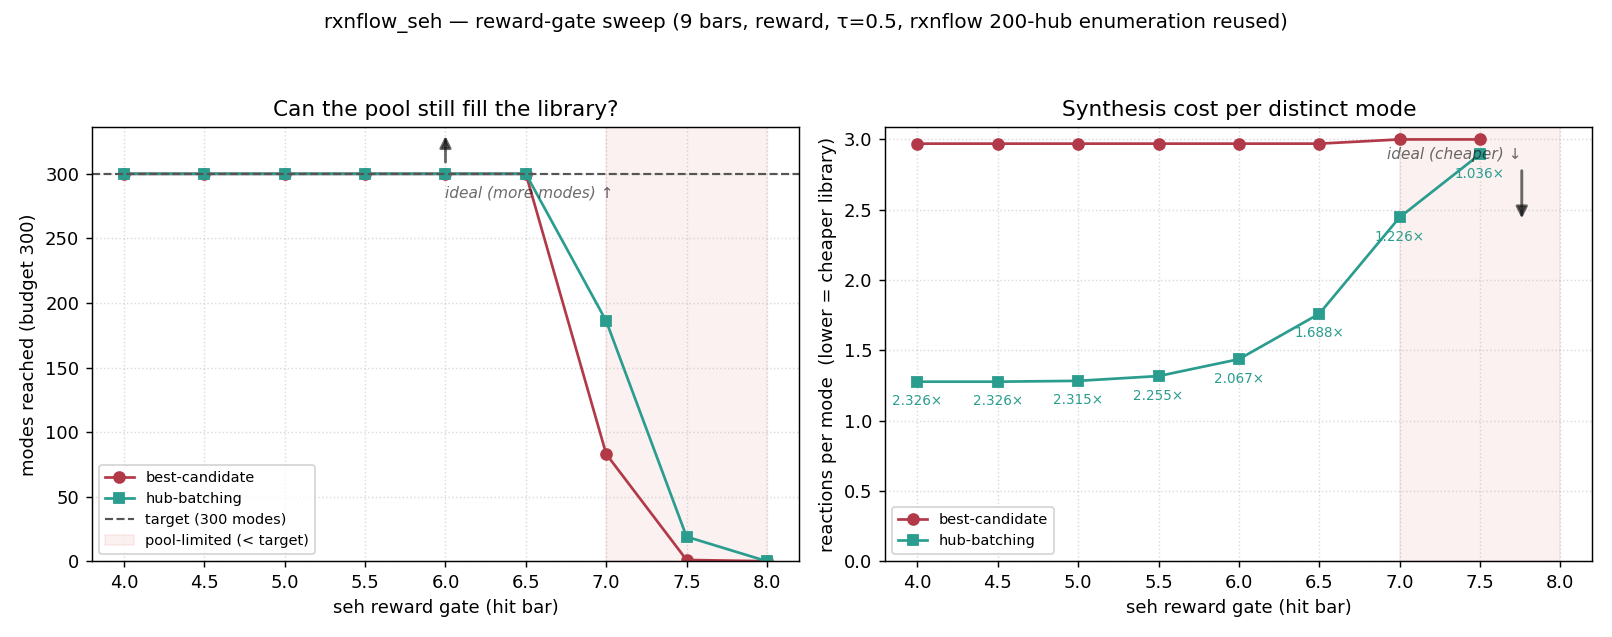
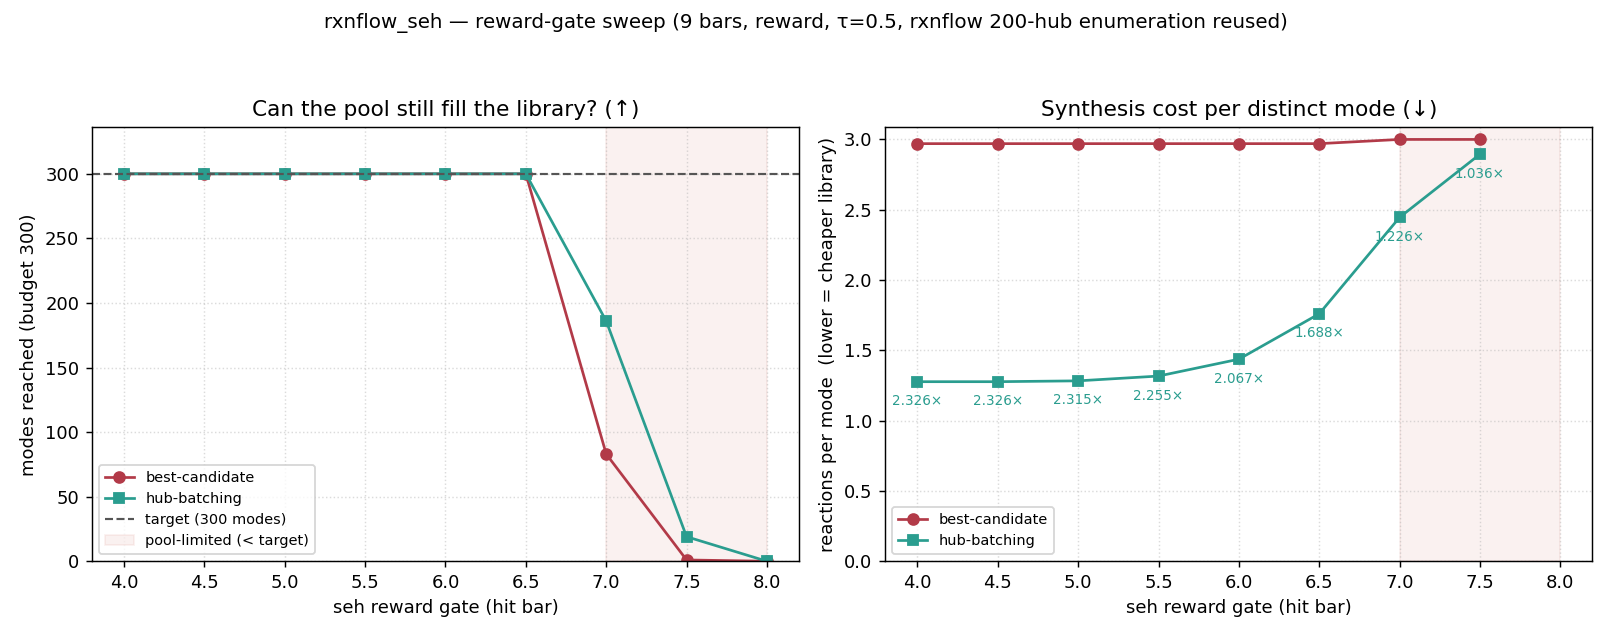
Ideal-direction marker moves into the title; no arrows inside the axes
Replaces the in-axes arrows from 2ddc411 with standard publication practice: a
parenthesised arrow appended to the panel TITLE, e.g. "Synthesis cost per
distinct mode (down-arrow)". Nothing is drawn in the plotting area any more --
no arrows, no shaded "better" corners. It costs no plot area, cannot collide
with the data or the legend, survives cropping, and reads correctly in a figure
list or caption.

The semantics changed with the placement, and this is the important part: the
glyph now describes the METRIC, not the screen. "lower"/"higher" only, and
ideal_marker() REJECTS screen-space words like "up-right". That removes the
confusion the old API required callers to reason about -- our panels invert axes
(fixed_modes plots reactions on an inverted y so cheaper is up), and the marker
is now correct there without the caller translating anything.

Where both axes are metrics the marker names them:
"(up-arrow modes, down-arrow reactions)".

Notably this caught a mislabel the previous approach had: sweep_campaign's
pareto (y = modes discovered) and fixed_modes (y = reactions REQUIRED) are BOTH
axis-inverted but want OPPOSITE arrows, so the old "infer up-right from
invert_x/invert_y" default was wrong for fixed_modes. Direction is now explicit
per call site with no inferred default.

Re-rendered every affected figure; all five headline cells' reactions/mode
verified unchanged.

diff --git a/validation/lsdflow/plot_style.py b/validation/lsdflow/plot_style.py
@@ -1,137 +1,92 @@
-"""Shared plot furniture for LSD-Flow figures — chiefly the "ideal direction" arrow.
+"""Shared plot furniture for LSD-Flow figures — the "ideal direction" marker.
 
-Every figure we publish has an axis whose *good* direction is not self-evident: reactions/mode is
-better LOW, modes-discovered is better HIGH, and a Pareto panel wants both at once. Worse, several of
-our panels deliberately invert an axis (diversity sweeps run 0.9 -> 0.3 so "more diverse" reads
-left-to-right; ``fixed_modes`` inverts y so "cheaper" is up), which makes the good direction genuinely
-ambiguous to a reader seeing the plot for the first time. :func:`ideal_arrow` stamps it explicitly.
+Every figure we publish has a metric whose *good* direction is not self-evident: reactions/mode is
+better LOW, modes-discovered is better HIGH, and a Pareto panel wants both at once. Several panels also
+deliberately invert an axis (diversity sweeps run 0.9 -> 0.3 so "more diverse" reads left-to-right;
+``fixed_modes`` inverts y so "cheaper" is up), which makes the good direction genuinely ambiguous to a
+first-time reader.
 
-**Direction is in SCREEN space, not data space.** The arrow is drawn in axes-fraction coordinates, so
-a caller with an inverted axis passes the direction the reader should look, not the direction the data
-values increase. That is the whole point: on ``fixed_modes`` (inverted y, fewer reactions upward) the
-correct call is ``ideal_arrow(ax, "up")``, even though the y *values* decrease upward.
+**Convention: a parenthesised arrow appended to the panel TITLE, never drawn inside the axes.** This is
+standard publication practice ("FID ↓", "Accuracy ↑") — it costs no plot area, cannot collide with the
+data or the legend, survives cropping, and reads correctly in a figure list or a caption. Do not add
+arrows, shaded "better" regions, or corner annotations to the plotting area.
 
-Import contract: matplotlib only (no torch/rdkit), so it loads in every analysis env. Callers that
-may run without matplotlib should still guard their own import; this module fails loudly if asked to
-draw without it.
+**The glyph describes the METRIC, not the screen.** ``↓`` always means "lower values are better",
+regardless of whether the axis happens to be inverted. That is what makes it unambiguous on our flipped
+panels: ``fixed_modes`` plots reactions on an inverted y-axis, and its marker is still ``(↓)`` because
+fewer reactions is better.
 
-    from validation.lsdflow.plot_style import ideal_arrow
-    ideal_arrow(ax, "up-right")                      # Pareto: more modes AND more diversity
-    ideal_arrow(ax, "down", label="ideal (cheaper)") # cost panels
+    from validation.lsdflow.plot_style import ideal_marker
+
+    ax.set_title(f"cost per mode {ideal_marker('lower')}")            # -> "... (↓)"
+    ax.set_title(f"modes found {ideal_marker('higher')}")             # -> "... (↑)"
+    ax.set_title("count-once curve " + ideal_marker(                  # two metrics at once
+        ("higher", "modes"), ("lower", "reactions")))                 # -> "(↑ modes, ↓ reactions)"
+
+Import contract: pure stdlib (no matplotlib, no torch), so it loads in every analysis env and in tests.
 """
 
 from __future__ import annotations
 
-# Unit screen-space vectors per direction name. Diagonals are normalized-ish so the arrow reads at
-# the same visual length as the axis-aligned ones.
-_DIRS = {
-    "up": (0.0, 1.0),
-    "down": (0.0, -1.0),
-    "left": (-1.0, 0.0),
-    "right": (1.0, 0.0),
-    "up-right": (0.72, 0.72),
-    "up-left": (-0.72, 0.72),
-    "down-right": (0.72, -0.72),
-    "down-left": (-0.72, -0.72),
-}
+from typing import Sequence, Tuple, Union
 
-# Unicode glyph appended to the label, so the direction survives greyscale printing and screen readers
-# get something meaningful.
-_GLYPH = {
-    "up": "↑",
-    "down": "↓",
-    "left": "←",
-    "right": "→",
-    "up-right": "↗",
-    "up-left": "↖",
-    "down-right": "↘",
-    "down-left": "↙",
-}
+# "lower"/"higher" describe the METRIC's good direction, never a screen direction.
+_GLYPH = {"lower": "↓", "higher": "↑", "down": "↓", "up": "↑"}
 
-# Anchor (axes-fraction) for the arrow's TAIL per requested location. Default keeps the annotation at
-# the top of the panel — one consistent place to look across every figure — with the arrow itself
-# pointing whichever way is good.
-_LOCS = {
-    "upper right": (0.90, 0.90),
-    "upper left": (0.10, 0.90),
-    "upper center": (0.50, 0.92),
-    "lower right": (0.90, 0.14),
-    "lower left": (0.10, 0.14),
-}
+Spec = Union[str, Tuple[str, str]]
 
 
-def ideal_arrow(
-    ax,
-    direction: str,
-    *,
-    label: str = "ideal",
-    loc: str = "upper right",
-    length: float = 0.11,
-    color: str = "#111111",
-    alpha: float = 0.62,
-    fontsize: float = 8.5,
-    lw: float = 1.6,
-):
-    """Stamp a small "ideal direction" arrow inside ``ax``.
+def _one(spec: Spec) -> str:
+    if isinstance(spec, str):
+        direction, name = spec, ""
+    else:
+        direction, name = spec
+    key = direction.strip().lower()
+    if key not in _GLYPH:
+        raise ValueError(f"direction must be 'lower' or 'higher', got {direction!r}")
+    return f"{_GLYPH[key]} {name}".strip()
+
+
+def ideal_marker(*specs: Spec) -> str:
+    """The parenthesised ideal-direction marker to append to a panel title.
 
     Args:
-        direction: screen-space direction (see :data:`_DIRS`) — ``"up"``, ``"down"``, ``"up-right"``,
-            etc. NOT the direction the data values increase (see module docstring).
-        label: text beside the arrow; the matching unicode glyph is appended automatically.
-        loc: where the arrow sits, as an axes-fraction anchor (see :data:`_LOCS`). Pick one that
-            misses the legend and the data — nothing here detects collisions.
-        length: arrow length in axes fractions.
+        *specs: one entry per metric. Either ``"lower"``/``"higher"``, or a
+            ``(direction, metric_name)`` pair when a panel has more than one metric and the arrows
+            would otherwise be ambiguous.
 
-    Returns the annotation, so a caller can tweak/remove it.
+    Returns:
+        e.g. ``"(↓)"``, ``"(↑)"``, ``"(↑ modes, ↓ reactions)"``. Empty string if no specs are given,
+        so a caller can pass through unconditionally.
     """
-    if direction not in _DIRS:
-        raise ValueError(f"direction must be one of {sorted(_DIRS)}, got {direction!r}")
-    if loc not in _LOCS:
-        raise ValueError(f"loc must be one of {sorted(_LOCS)}, got {loc!r}")
-    dx, dy = _DIRS[direction]
-    x0, y0 = _LOCS[loc]
-    # Draw from the anchor toward the ideal corner, clamped into the axes so a diagonal never spills.
-    x1 = min(max(x0 + dx * length, 0.02), 0.98)
-    y1 = min(max(y0 + dy * length, 0.02), 0.98)
-    ann = ax.annotate(
-        "",
-        xy=(x1, y1),
-        xytext=(x0, y0),
-        xycoords="axes fraction",
-        textcoords="axes fraction",
-        arrowprops=dict(
-            arrowstyle="-|>",
-            color=color,
-            alpha=alpha,
-            lw=lw,
-            shrinkA=0,
-            shrinkB=0,
-            mutation_scale=13,
-        ),
-        annotation_clip=False,
-        zorder=6,
-    )
-    if label:
-        # Offset the text opposite the arrow so it never sits under the shaft, then clamp it inside
-        # the axes. Alignment is chosen from where the label ACTUALLY lands, not from the arrow
-        # direction: anchoring at x=0.90 and aligning left pushes the text off the right edge (it
-        # clipped "ideal ↖" on the count-once curve before this).
-        ox, oy = -dx * 0.055, -dy * 0.055
-        if dy == 0.0:  # a horizontal arrow: offsetting along -x lands the text ON the shaft
-            ox, oy = -dx * 0.015, -0.075  # so drop it below instead
-        xl = min(max(x0 + ox, 0.04), 0.96)
-        yl = min(max(y0 + oy, 0.04), 0.96)
-        ax.text(
-            xl,
-            yl,
-            f"{label} {_GLYPH[direction]}",
-            transform=ax.transAxes,
-            ha="right" if xl > 0.5 else "left",
-            va="top" if yl > 0.5 else "bottom",
-            fontsize=fontsize,
-            color=color,
-            alpha=alpha,
-            style="italic",
-            zorder=6,
-        )
-    return ann
+    # Drop empty/None entries so a caller can pass an optional value straight through without
+    # branching (a bare `ideal or ""` must not raise).
+    kept = [s for s in specs if s]
+    if not kept:
+        return ""
+    return "(" + ", ".join(_one(s) for s in kept) + ")"
+
+
+def title_with_ideal(title: str, *specs: Spec) -> str:
+    """``title`` with the marker appended — the one-call form for ``ax.set_title``."""
+    marker = ideal_marker(*specs)
+    return f"{title} {marker}" if marker else title
+
+
+def axis_label_with_ideal(label: str, direction: str) -> str:
+    """A single-metric axis label carrying its own marker, e.g. ``"reactions per mode (↓)"``.
+
+    Use when a panel's title covers something else (a question, a cell name) and the direction belongs
+    to the axis. Still text — nothing is drawn inside the axes.
+    """
+    return f"{label} {ideal_marker(direction)}"
+
+
+def describe(*specs: Sequence[Spec]) -> str:
+    """Long form for captions/logs: ``"lower is better"`` / ``"higher is better"``."""
+    parts = []
+    for spec in specs:
+        direction, name = (spec, "") if isinstance(spec, str) else spec
+        word = "lower" if _GLYPH[direction.strip().lower()] == "↓" else "higher"
+        parts.append(f"{word} {name}".strip() + " is better")
+    return "; ".join(parts)

diff --git a/experiments/lsd_hubs/campaign/run_campaign.py b/experiments/lsd_hubs/campaign/run_campaign.py
@@ -35,6 +35,7 @@ from validation.lsdflow.metrics.cost.compute_time import account_strategy, head_
 from validation.lsdflow.metrics.cost.dynamic_amortization import (
     load_cost_table_from_snapshot,
 )
+from validation.lsdflow.plot_style import title_with_ideal
 
 HERE = Path(__file__).resolve().parent
 
@@ -251,17 +252,6 @@ def _write_curve(path: Path, result) -> None:
             )
 
 
-def _ideal(ax, direction: str, **kw) -> None:
-    """Stamp the "ideal direction" arrow (:mod:`validation.lsdflow.plot_style`), tolerating its
-    absence so a plot never fails over furniture. Direction is SCREEN-space, not data-space."""
-    try:
-        from validation.lsdflow.plot_style import ideal_arrow
-
-        ideal_arrow(ax, direction, **kw)
-    except Exception as exc:  # noqa: BLE001
-        print(f"[campaign] ideal-direction arrow skipped ({exc})")
-
-
 def _plot(path: Path, results, tag: str) -> None:
     try:
         import matplotlib
@@ -278,10 +268,16 @@ def _plot(path: Path, results, tag: str) -> None:
         ax.plot(xs, ys, marker=".", ms=3, lw=1.5, label=res.strategy)
     ax.set_xlabel("cumulative reactions (true nested cost, count-once)")
     ax.set_ylabel("cumulative modes (diverse hits)")
-    ax.set_title(f"SCENT {tag}: hub-batching vs best-candidate")
+    # Both axes are metrics here, so the marker names them (see plot_style: title-only, never drawn
+    # inside the axes).
+    ax.set_title(
+        title_with_ideal(
+            f"SCENT {tag}: hub-batching vs best-candidate",
+            ("higher", "modes"),
+            ("lower", "reactions"),
+        )
+    )
     ax.legend()
-    # More modes for fewer reactions = up-and-left.
-    _ideal(ax, "up-left", loc="lower right")
     fig.tight_layout()
     fig.savefig(path, dpi=130)
     print(f"[campaign] wrote {path}")
@@ -342,9 +338,9 @@ def plot_compute_time(path: Path, section: dict, tag: str) -> None:
     if extra is not None:
         sub = f"  (+{extra:.0f}s"
         sub += f", {ratio:g}× vs best-candidate)" if ratio else ")"
-    ax.set_title(f"{tag}: measured compute time by component{sub}", fontsize=10)
-    # Horizontal bars of wall-clock: shorter (leftward) is better.
-    _ideal(ax, "left", label="ideal (less compute)", loc="upper right")
+    ax.set_title(
+        title_with_ideal(f"{tag}: measured compute time by component{sub}", "lower"), fontsize=10
+    )
     ax.legend(fontsize=7, ncol=6, loc="upper center", bbox_to_anchor=(0.5, -0.22), framealpha=0.9)
     fig.tight_layout()
     fig.savefig(path, dpi=130)

diff --git a/experiments/lsd_hubs/campaign/strategy_compute_summary.py b/experiments/lsd_hubs/campaign/strategy_compute_summary.py
@@ -32,7 +32,7 @@ import matplotlib.pyplot as plt
 import pandas as pd
 
 sys.path.insert(0, str(Path(__file__).resolve().parents[2]))
-from validation.lsdflow.plot_style import ideal_arrow  # noqa: E402
+from validation.lsdflow.plot_style import title_with_ideal  # noqa: E402
 
 # Pipeline components, in the order they stack, with labels + colours.
 # setup + hub_pick are folded together (hub_pick ~= 0.16 s, one-off).
@@ -104,7 +104,7 @@ def main() -> None:
 
     axc.set_ylim(0, max(bottoms) * 1.16)
     axc.set_ylabel("compute time (s)")
-    axc.set_title("Where the time goes (measured, per component)")
+    axc.set_title(title_with_ideal("Where the time goes (measured, per component)", "lower"))
     axc.set_xticks(list(x))
     axc.set_xticklabels(strategies, rotation=25, ha="right")
     pad = max(bottoms) * 0.012
@@ -119,13 +119,12 @@ def main() -> None:
             fontweight="bold",
         )
     axc.grid(axis="y", ls=":", alpha=0.4)
-    ideal_arrow(axc, "down", label="ideal (less compute)", loc="upper right")
 
     # ---- Panel B: reward-gen (oracle) calls --------------------------------
     calls = d["reward_gen_calls"].fillna(0).astype(int).tolist()
     bars = axr.bar(list(x), calls, color="#f0883e", width=0.62, edgecolor="white", linewidth=0.4)
     axr.set_ylabel("reward-gen calls  (≈ oracle calls in the AL loop)")
-    axr.set_title("How many reward calls")
+    axr.set_title(title_with_ideal("How many reward calls", "lower"))
     axr.set_xticks(list(x))
     axr.set_xticklabels(strategies, rotation=25, ha="right")
     for b, c in zip(bars, calls):
@@ -140,7 +139,6 @@ def main() -> None:
         )
     axr.grid(axis="y", ls=":", alpha=0.4)
     axr.set_ylim(0, max(calls) * 1.15 if max(calls) else 1)
-    ideal_arrow(axr, "down", label="ideal (fewer calls)", loc="upper right")
 
     from matplotlib.patches import Patch
 

diff --git a/experiments/lsd_hubs/matrix16/gate_curve.py b/experiments/lsd_hubs/matrix16/gate_curve.py
@@ -183,7 +183,7 @@ def _plot(path: Path, rows, cell, a) -> None:
     except Exception as exc:  # noqa: BLE001
         print(f"[gate_curve] plot skipped ({exc})")
         return
-    from validation.lsdflow.plot_style import ideal_arrow
+    from validation.lsdflow.plot_style import title_with_ideal
 
     gates = [r["gate"] for r in rows]
     fig, (ax1, ax2) = plt.subplots(1, 2, figsize=(12.4, 4.9))
@@ -209,11 +209,10 @@ def _plot(path: Path, rows, cell, a) -> None:
         ax2.axvspan(min(lim) - 1e-9, max(gates), color="#c0392b", alpha=0.07)
     ax1.set_xlabel(f"{cell.target_name} reward gate (hit bar)")
     ax1.set_ylabel(f"modes reached (budget {a.budget_modes})")
-    ax1.set_title("Can the pool still fill the library?")
+    ax1.set_title(title_with_ideal("Can the pool still fill the library?", "higher"))
     ax1.set_ylim(0, a.budget_modes * 1.12)
     ax1.grid(ls=":", alpha=0.45)
     ax1.legend(fontsize=8)
-    ideal_arrow(ax1, "up", label="ideal (more modes)", loc="upper center")
 
     # ---- Panel 2: reactions/mode vs gate -----------------------------------
     ax2.plot(gates, [r["best_rxn_per_mode"] for r in rows], "o-", color=BC, label="best-candidate")
@@ -231,11 +230,10 @@ def _plot(path: Path, rows, cell, a) -> None:
             )
     ax2.set_xlabel(f"{cell.target_name} reward gate (hit bar)")
     ax2.set_ylabel("reactions per mode  (lower = cheaper library)")
-    ax2.set_title("Synthesis cost per distinct mode")
+    ax2.set_title(title_with_ideal("Synthesis cost per distinct mode", "lower"))
     ax2.set_ylim(0, None)
     ax2.grid(ls=":", alpha=0.45)
     ax2.legend(fontsize=8)
-    ideal_arrow(ax2, "down", label="ideal (cheaper)", loc="upper right")
 
     pol = a.child_policy + (f" K={a.prebuild_k}" if a.prebuild_k else "")
     fig.suptitle(

diff --git a/experiments/lsd_hubs/matrix16/tau_curve_all_generators.py b/experiments/lsd_hubs/matrix16/tau_curve_all_generators.py
@@ -256,7 +256,7 @@ def _plot(path: Path, rows, cells, missing, a) -> None:
     except Exception as exc:  # noqa: BLE001
         print(f"[tau] plot skipped ({exc})")
         return
-    from validation.lsdflow.plot_style import ideal_arrow
+    from validation.lsdflow.plot_style import ideal_marker
 
     fig, ax = plt.subplots(figsize=(8.2, 5.4))
     for cell in cells:
@@ -290,17 +290,17 @@ def _plot(path: Path, rows, cells, missing, a) -> None:
     ax.set_xlabel("Diversity cutoff (Tanimoto similarity)      similar modes → diverse modes")
     ax.set_ylabel(f"modes discovered within {a.budget_reactions} reactions")
     gate = rows[0]["gate"]
+    # Marker in the TITLE (plot_style convention) — the y metric is modes found, higher is better.
+    # It reads correctly despite the inverted x because the glyph describes the metric, not the screen.
     ax.set_title(
-        f"{a.target} — diverse hits per fixed synthesis budget, all generators\n"
+        f"{a.target} — diverse hits per fixed synthesis budget, all generators "
+        f"{ideal_marker('higher')}\n"
         f"gate {gate} · {a.budget_reactions}-reaction budget · 200-hub enumeration reused\n"
         f"solid = hub-batching, dashed = best-candidate",
         fontsize=10,
     )
     ax.grid(ls=":", alpha=0.45)
     ax.legend(fontsize=8, ncol=2, framealpha=0.92, loc="lower left")
-    # x is INVERTED, so "more diverse" is to the RIGHT: ideal = up-and-right in screen space. The
-    # top-right corner is empty here (every curve decays toward it), so the arrow sits clear of data.
-    ideal_arrow(ax, "up-right", loc="upper right")
     if missing:
         fig.text(
             0.5,
